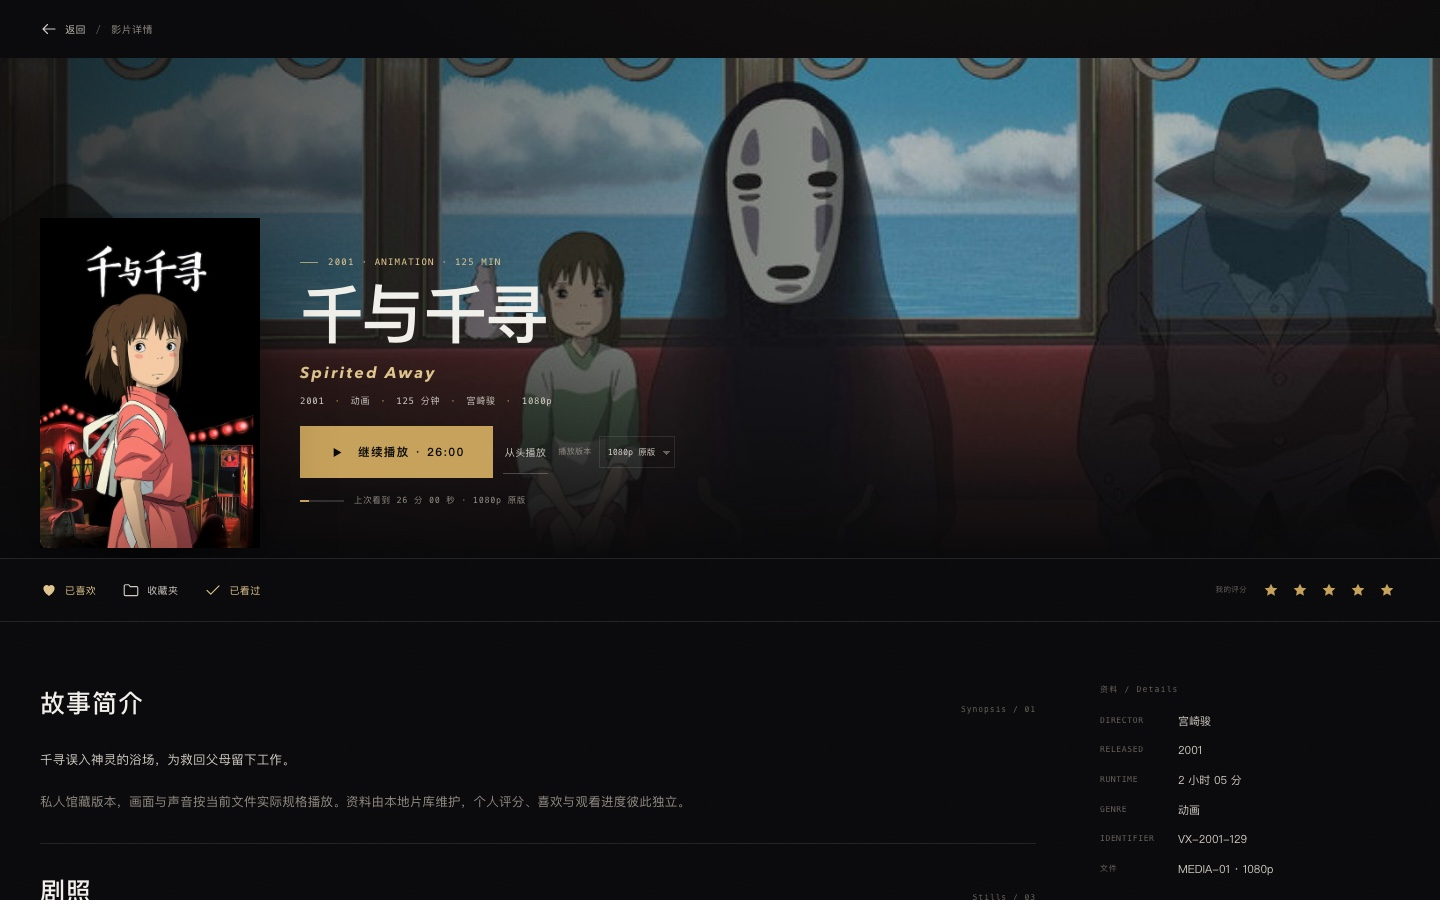
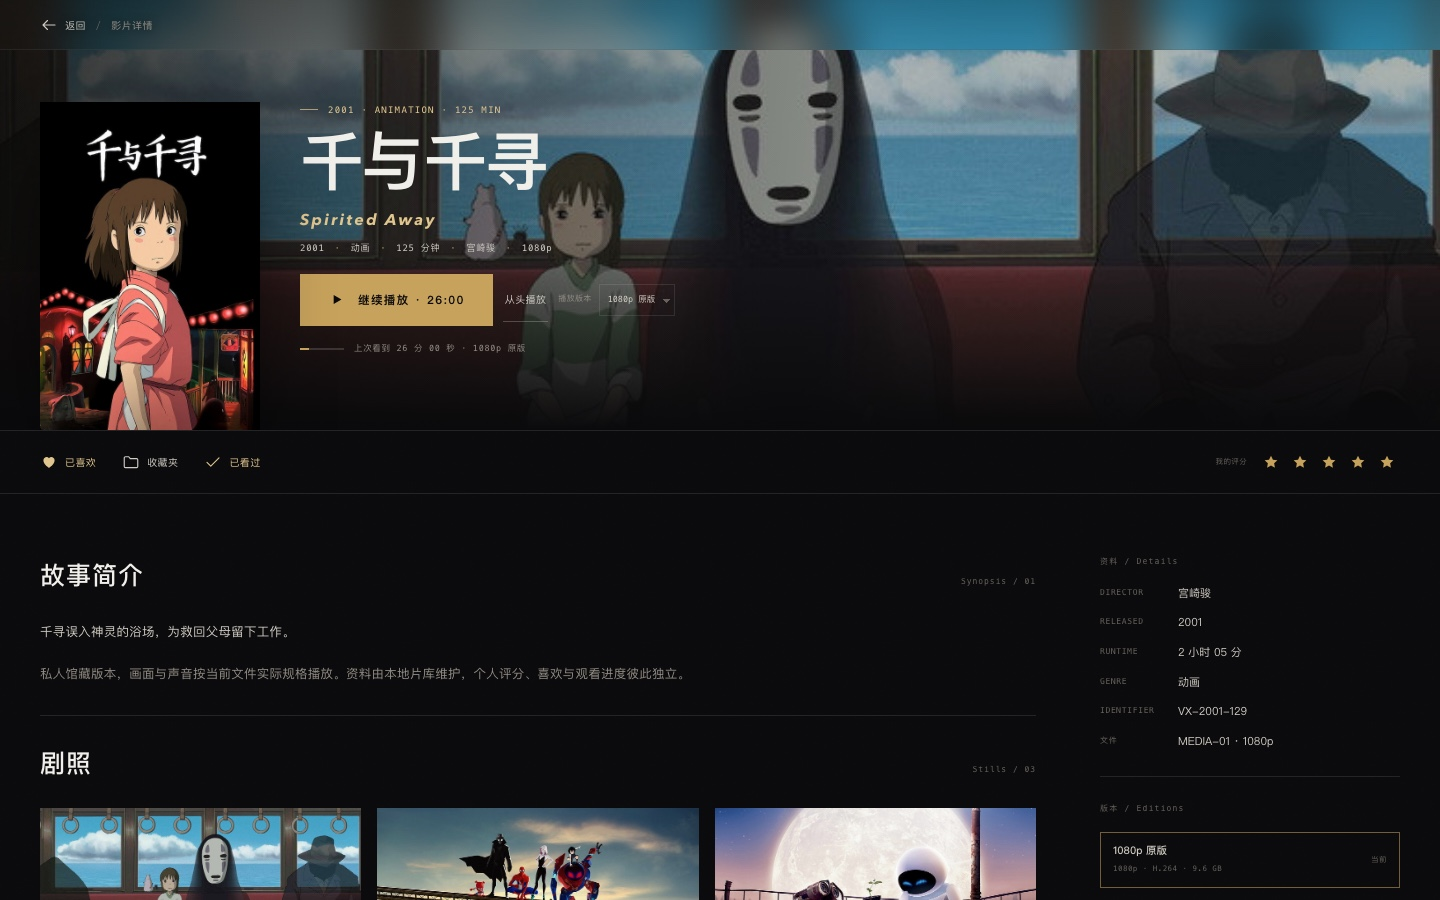
fix(design): 详情页吸顶毛玻璃与紧凑首屏

diff --git a/design/2026-11-film-catalog/styles/web.css b/design/2026-11-film-catalog/styles/web.css
@@ -1350,14 +1350,22 @@
 }
 
 .detail-crumb {
-  max-width: var(--max-w);
-  margin: 0 auto;
-  height: 58px;
+  position: sticky;
+  top: 0;
+  z-index: 26;
+  width: 100%;
+  height: 50px;
+  margin: 0;
   padding: 0 var(--gutter);
   display: flex;
   align-items: center;
   gap: 10px;
   color: var(--ivory-4);
+  background: linear-gradient(180deg, rgba(10, 10, 9, 0.18), rgba(10, 10, 9, 0.02));
+  border-bottom: 1px solid rgba(241, 239, 234, 0.08);
+  -webkit-backdrop-filter: blur(22px) saturate(1.35);
+  backdrop-filter: blur(22px) saturate(1.35);
+  text-shadow: 0 1px 8px rgba(0, 0, 0, 0.6);
   font-size: 10px;
   letter-spacing: 0.04em;
 }
@@ -1379,11 +1387,12 @@
 
 .detail-hero {
   position: relative;
-  min-height: 500px;
-  padding: 0 var(--gutter) 46px;
+  min-height: 430px;
+  margin-top: -50px;
+  padding: 62px var(--gutter) 30px;
   display: flex;
   flex-direction: column;
-  justify-content: flex-end;
+  justify-content: center;
   overflow: hidden;
   isolation: isolate;
 }
@@ -1467,7 +1476,7 @@
 .detail-main-row {
   display: grid;
   grid-template-columns: 220px minmax(0, 1fr);
-  align-items: end;
+  align-items: center;
   gap: 40px;
   max-width: var(--max-w);
   width: 100%;
@@ -2631,8 +2640,9 @@
   }
 
   .detail-hero {
-    min-height: 620px;
-    padding-top: calc(var(--head-h) + 30px);
+    min-height: auto;
+    margin-top: -50px;
+    padding: 74px var(--gutter) 34px;
   }
 
   .detail-main-row {

diff --git a/design/2026-11-film-catalog/README.md b/design/2026-11-film-catalog/README.md
@@ -58,7 +58,7 @@
 - 首页 480px 左右的横幅，继续观看和类型索引在首屏下方开始出现。
 - 片库 7 列；卡片只保留片名、年份、分类、评分和格式角标。
 - 收藏、我的都是带顶部导航的一级页面。
-- 详情是独立页面，不显示全局导航；顶部只保留“返回 / 影片详情”面包屑。播放、从头播放、播放版本是同一行的紧凑控件，不做两个等宽大按钮；评分、喜欢、已看、收藏夹在剧照下的个人条。
+- 详情是独立页面，不显示全局导航；顶部只保留 50px 的吸顶毛玻璃“返回 / 影片详情”面包屑，覆盖在剧照上而不是一条独立黑条。播放、从头播放、播放版本是同一行的紧凑控件，不做两个等宽大按钮；评分、喜欢、已看、收藏夹在剧照下的个人条。
 
 **管理端 · Archive**
 

diff --git a/design/2026-11-film-catalog/IMPLEMENTATION.md b/design/2026-11-film-catalog/IMPLEMENTATION.md
@@ -91,7 +91,7 @@
 
 ## 5. 观看端详情
 
-- 详情是独立页面（或全屏 dialog），不保留全局顶部导航；顶部使用“返回 / 影片详情”面包屑。
+- 详情是独立页面（或全屏 dialog），不保留全局顶部导航；顶部使用 50px 吸顶毛玻璃“返回 / 影片详情”面包屑，覆盖在剧照上，不占独立黑条。
 - 首屏：剧照、海报、宋体已移除后的无衬线标题、元信息、播放主按钮、从头播放文本、播放版本 select。
 - 播放版本是紧凑 select，不做第二个等宽按钮。
 - 喜欢 / 收藏夹 / 已看 / 评分放在剧照下方的个人条；不做右上角浮动工具条。
